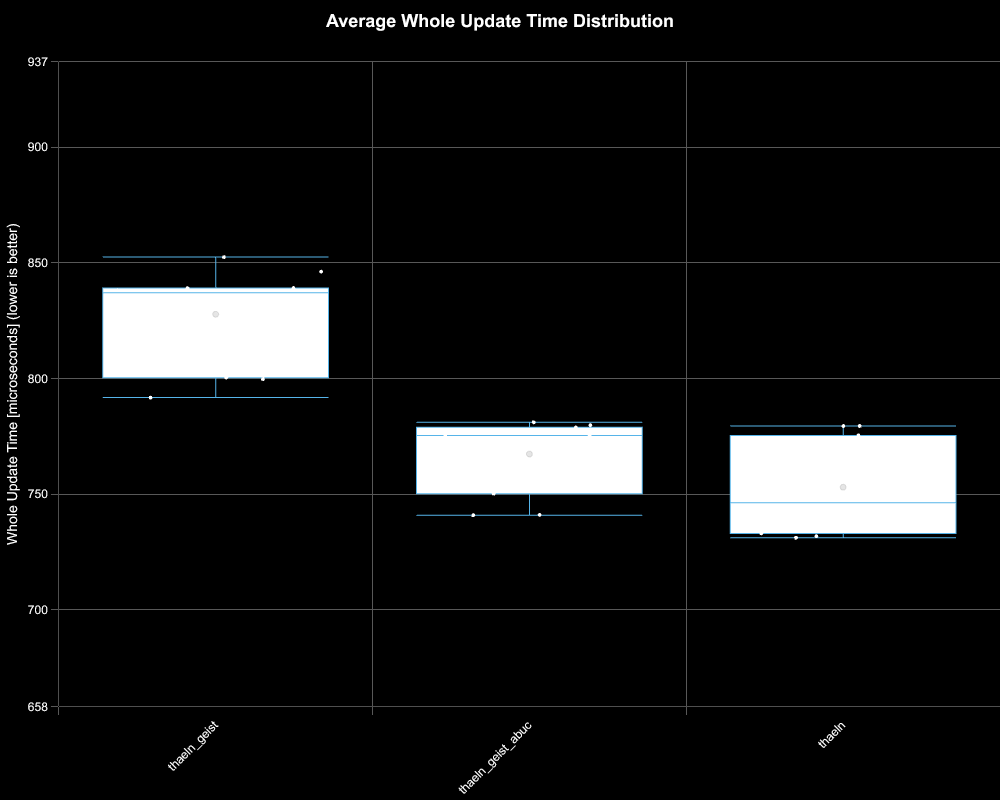
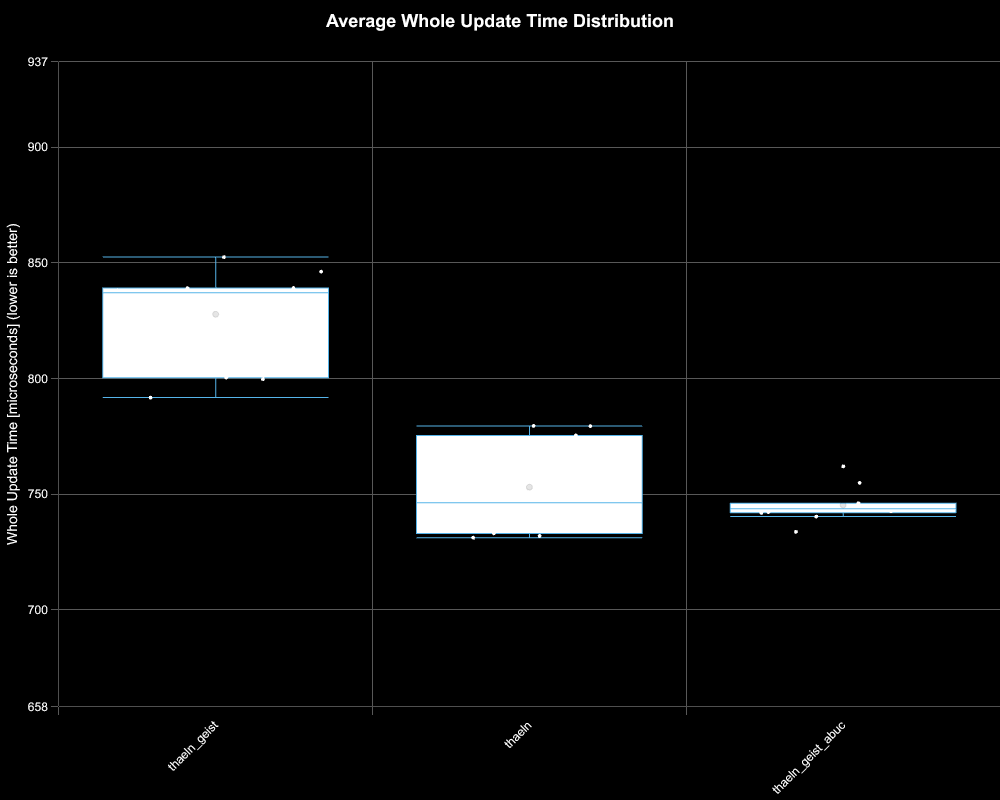
chem sci component tests round 02 fixes for abucs wiring mistakes

diff --git a/competitions/2025-Q1-Nauvis/chemical-science/component_tests/results_red_round_02/entity-counter.js b/competitions/2025-Q1-Nauvis/chemical-science/component_tests/results_red_round_02/entity-counter.js
@@ -947,7 +947,7 @@ function generateCsvs(baseDir) {
     });
 
     // Write aggregate CSV at top level
-    const aggregatePath = path.join(baseDir, "aggregate.csv");
+    const aggregatePath = path.join(baseDir, "entity_counts.csv");
     writeAggregateMatrix(aggregatePath, allCounts);
 }
 

diff --git a/competitions/2025-Q1-Nauvis/chemical-science/component_tests/results_red_round_02/README.md b/competitions/2025-Q1-Nauvis/chemical-science/component_tests/results_red_round_02/README.md
@@ -6,7 +6,7 @@
 ## Scenario
 * Each save was tested for 18000 tick(s) and 10 run(s)
 * 100 copies of 320 per second red chips
-* each blueprint by map name here [https://factoriobin.com/post/gdls7l](https://factoriobin.com/post/gdls7l)
+* each blueprint by map name here [https://factoriobin.com/post/0vlb3w](https://factoriobin.com/post/0vlb3w)
 
 ## Results
 | Metric            | Description                           |
@@ -16,11 +16,11 @@
 | **Mean Min (ms)** | Minimum frame time - lower is better  |
 | **Mean Max (ms)** | Maximum frame time - lower is better  |
 
-| Save | Avg (ms) | Min (ms) | Max (ms) | UPS | Execution Time (ms) | % Difference from Worst |
-|------|----------|----------|----------|-----|---------------------| --- |
-| thaeln_geist | 0.829 | 0.244 | 2.845 | 1206 | 149289 | 0.00% |
-| thaeln_geist_abuc | 0.770 | 0.206 | 3.698 | 1299 | 138537 | 7.74% |
-| thaeln | 0.755 | 0.209 | 3.871 | **1325** | 135882 | 9.87% |
+| Save              | Avg (ms) | Min (ms) | Max (ms) | UPS      | Execution Time (ms) |
+| ----------------- | -------- | -------- | -------- | -------- | ------------------- |
+| thaeln_geist      | 0.829    | 0.244    | 2.845    | 1206     | 149289              |
+| thaeln            | 0.755    | 0.209    | 3.871    | 1325     | 135882              |
+| thaeln_geist_abuc | 0.748    | 0.197    | 3.633    | **1337** | 134580              |
 
 ![summary_verbose_metrics_all_designs_table](charts/summary_verbose_metrics_all_designs_table.png)
 ![summary_run_distribution_all](charts/summary_run_distribution_all.png)

diff --git a/competitions/2025-Q1-Nauvis/chemical-science/component_tests/results_red_round_02/results.md b/competitions/2025-Q1-Nauvis/chemical-science/component_tests/results_red_round_02/results.md
@@ -1,0 +1,28 @@
+# Factorio Benchmark Results
+
+**Platform:** windows-x86_64
+**Factorio Version:** 2.0.66
+
+## Scenario
+* Each save was tested for 18000 tick(s) and 10 run(s)
+
+## Results
+| Metric | Description |
+| ----------------- | ------------------------------------- |
+| **Mean UPS** | Updates per second - higher is better |
+| **Mean Avg (ms)** | Average frame time - lower is better |
+| **Mean Min (ms)** | Minimum frame time - lower is better |
+| **Mean Max (ms)** | Maximum frame time - lower is better |
+
+| Save | Avg (ms) | Min (ms) | Max (ms) | UPS | Execution Time (ms) | % Difference from Worst |
+|------|----------|----------|----------|-----|---------------------| --- |
+| thaeln_geist_abuc | 0.748 | 0.197 | 3.633 | **1337** | 134580 | 0.00% |
+
+![result_0_chart.svg](result_0_chart.svg)
+
+Box and Whisker Plot:
+![result_1_chart.svg](result_1_chart.svg)
+
+![result_2_chart.svg](result_2_chart.svg)
+
+## Conclusion
